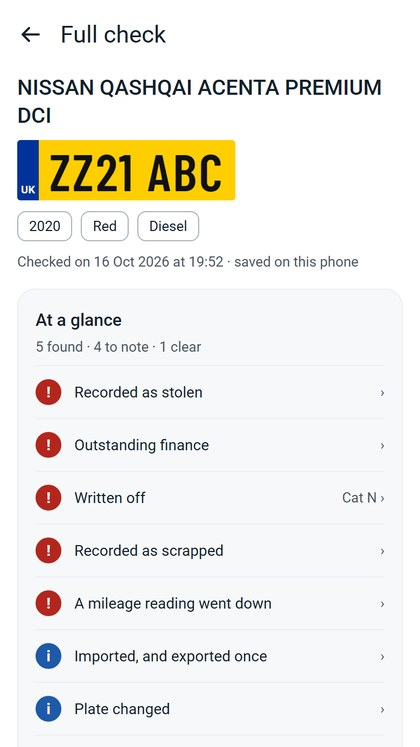
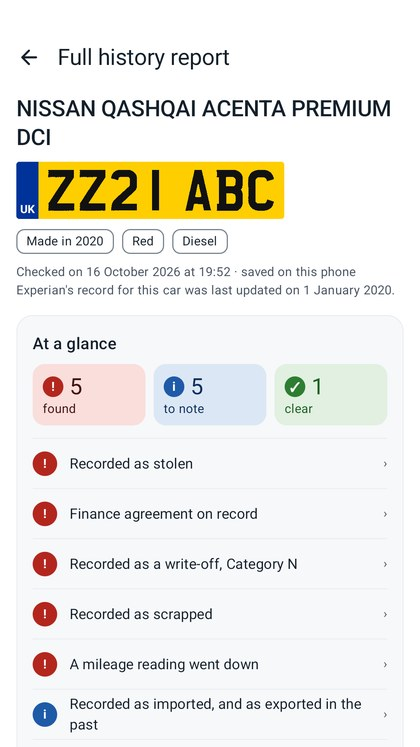
Full history check page and terms: the name, the app's words for what is covered, "Offered by", and the part-missing wording
Follows the Roadworthy app's content notifications 2026-10-21-roadworthy-full-history-check-name,
-wording, 2026-10-22-roadworthy-full-history-check-offered-by and 2026-10-21-roadworthy-terms-part-missing,
from the app's strings and plan. Designs "A2 · Full history check page" and "A2 · Terms of sale",
signed off by the owner on 22 October 2026 (canvas v148); the terms' meta description approved the
same day. The report image is the app's built report screen (car_report store-assets/website/
full-check-report.jpg). The branch keeps its older layout; it is brought up to master's frame
before it goes live. Reviewed by the commit-reviewer (fix first, then ok to commit).

Changed region(s): [[0.031, 0.0308, 0.9286, 0.9853], [0.8048, 0.6466, 0.8976, 0.6774]]

diff --git a/roadworthy/history-check/terms/index.html b/roadworthy/history-check/terms/index.html
@@ -4,13 +4,13 @@
 <meta charset="utf-8">
 <meta name="viewport" content="width=device-width, initial-scale=1">
 <title>Terms of sale: Roadworthy's full history check | Happy Path Apps</title>
-<meta name="description" content="The terms for buying Roadworthy's full history check from Happy Path Apps Ltd: what you get, the price, your right to cancel, and what to do if something is wrong.">
+<meta name="description" content="The terms for Roadworthy's full history check, offered by Happy Path Apps Ltd: what you get, the price, your right to cancel, and what to do if something is wrong.">
 <link rel="canonical" href="https://happypathapps.co.uk/roadworthy/history-check/terms/">
 <link rel="icon" href="/brand/favicon-32.png" sizes="32x32">
 <link rel="apple-touch-icon" href="/brand/favicon-180.png">
 <link rel="stylesheet" href="/style.css">
-<!-- The terms of sale for Roadworthy's Full check. Its design and wording are "Terms of sale"
-     on the design canvas. The draft line under the heading is replaced, with the date, when
+<!-- The terms of sale for Roadworthy's Full history check. Its design and wording are "A2 · Terms of sale"
+     on the design canvas (signed off 22 October 2026). The draft line under the heading is replaced, with the date, when
      the terms come into force. -->
 </head>
 <body>
@@ -38,7 +38,7 @@
 <div class="callout">
   <strong>The short version</strong>
   <ul>
-    <li>You're buying one report on one car, from Happy Path Apps Ltd, for &pound;6.99, paid through Google Play.</li>
+    <li>You're buying one report on one car, offered by Happy Path Apps Ltd, for &pound;6.99. You buy it through Google Play, which takes the payment and accounts for the VAT.</li>
     <li>The report shows what the records held on the day you checked. Records can be wrong or incomplete.</li>
     <li>You can't cancel once the report has been delivered, because you'll have asked for it straight away. If no report can be made, we refund you through Google Play.</li>
     <li>There's no data guarantee.</li>
@@ -50,22 +50,22 @@
 <p>Happy Path Apps Ltd, registered in England and Wales, company number 17507113. Registered office: 18 Brookdene Road, Bury, England, BL9 8ND. Email <a href="mailto:happypathapps@gmail.com">happypathapps@gmail.com</a>. Registered with the Information Commissioner's Office, number ZC279265.</p>
 
 <h2>What you're buying</h2>
-<p>One report on one vehicle, found by the registration you enter. It covers outstanding finance, insurance write-offs and their category, whether the vehicle is recorded as stolen, keeper changes, plate and colour changes, and whether it's recorded as scrapped, exported or imported. That data is provided by Experian.</p>
+<p>One report on one vehicle, found by the registration you enter. It covers finance agreements, the insurers' write-off register and any category, whether the vehicle is recorded as stolen, keeper changes, plate and colour changes, and whether it's recorded as scrapped, exported or imported. That data is provided by Experian.</p>
 <p>The report also shows what Roadworthy shows free for any vehicle, from DVLA and DVSA: tax, MOT status, MOT history and mileage at each test.</p>
 <p>The report is a record of what those sources held when you made the check. It isn't an inspection of the vehicle, a valuation, or advice to buy or not to buy. It doesn't cover the vehicle's physical condition or whether it's roadworthy, and it can't show whether a vehicle is a clone carrying another vehicle's identity.</p>
 
 <h2>Price and payment</h2>
-<p>The price is &pound;6.99, including VAT, shown in the app before you buy. You pay through Google Play, and Google's terms apply to the payment.</p>
+<p>The price is &pound;6.99, including VAT, shown in the app before you buy. You buy it through Google Play, which takes the payment and accounts for the VAT. Google Play's terms also apply.</p>
 
 <h2>Getting your report</h2>
 <p>The report appears in the app as soon as it's ready, and is saved on your phone with the vehicle. Keep it as long as you like. It stays until you choose to delete the report itself: deleting the vehicle from the app doesn't delete it. It's stored only on your phone, so uninstalling the app removes it.</p>
-<p>If the check can't be completed, no report is made and we refund you through Google Play. If part of the check doesn't come back, the report says "Not checked" for that part.</p>
+<p>If the check can't be completed, no report is made and we refund you through Google Play. If part of the check doesn't come back, or comes back incomplete, the report says "Not checked" for that part. Tell us and we'll check that part again within a reasonable time and without significant inconvenience to you. If we can't, or don't, we'll reduce the price by an appropriate amount, which may be the full price.</p>
 
 <h2>Your right to cancel</h2>
 <p>For digital content you normally have 14 days to cancel. Before you buy, the app asks you to agree that the report is made straight away and that, once it's delivered, you can no longer cancel. So once your report has been delivered, you can't cancel the purchase.</p>
 
 <h2>If something is wrong with your report</h2>
-<p>The report must be as we describe it here. If it isn't, for example if it's for a different vehicle from the one you entered, or a part is missing that it should have, tell us and we'll put it right or refund you.</p>
+<p>The report must be as we describe it here. If it isn't, for example if it's for a different vehicle from the one you entered, tell us and we'll put it right or refund you.</p>
 <p>We pass on the records as Experian and its sources give them to us. We don't create them, and we can't check them. If a record is wrong or incomplete, tell us, and we'll pass it on to Experian.</p>
 <p>We use reasonable care and skill in supplying your report, but the records in it come from Experian and its sources, and from DVLA and DVSA. We can't promise they're free of errors or complete. If the report isn't as described here, your rights under consumer law apply, and we'll put it right or refund you. Beyond that, our liability to you is limited to the price you paid.</p>
 <p>We aren't liable for losses we couldn't reasonably have foreseen, or for events beyond our reasonable control. Nothing in these terms limits our liability for death or personal injury caused by our negligence, for fraud, or for anything else the law doesn't let us limit, and nothing in them takes away your legal rights.</p>

diff --git a/roadworthy/history-check/index.html b/roadworthy/history-check/index.html
@@ -4,17 +4,17 @@
 <meta charset="utf-8">
 <meta name="viewport" content="width=device-width, initial-scale=1">
 <title>A full history check, in Roadworthy | Happy Path Apps</title>
-<meta name="description" content="Before you buy a used car, find out whether it has finance owing, has been written off, or is recorded as stolen. One car, one report, £6.99, yours to keep.">
+<meta name="description" content="Before you buy a used car, find out whether it has a finance agreement on record, is on the insurers' write-off register, or is recorded as stolen. One car, one report, £6.99, yours to keep.">
 <link rel="canonical" href="https://happypathapps.co.uk/roadworthy/history-check/">
 <link rel="icon" href="/brand/favicon-32.png" sizes="32x32">
 <link rel="apple-touch-icon" href="/brand/favicon-180.png">
 <link rel="preload" href="/brand/fonts/overpass-latin.woff2" as="font" type="font/woff2" crossorigin>
 <link rel="stylesheet" href="/app.css">
 <meta property="og:title" content="A full history check, in Roadworthy">
-<meta property="og:description" content="Finance owing, write-offs and stolen records for a used car. One car, one report, £6.99, yours to keep.">
+<meta property="og:description" content="Finance agreements, the insurers' write-off register and stolen records for a used car. One car, one report, £6.99, yours to keep.">
 <meta property="og:image" content="https://happypathapps.co.uk/roadworthy/shots/full-check.jpg">
-<!-- Roadworthy's Full check, sold in the app. Its design is "A · Full history check page" on
-     the design canvas. Experian is named only as "Data provided by Experian": it provides the
+<!-- Roadworthy's Full history check, offered in the app. Its design is "A2 · Full history check page" on
+     the design canvas (signed off 22 October 2026). Experian is named only as "Data provided by Experian": it provides the
      data and does not power the check, so it is never described as powering it, and no
      Experian logo is shown. The ICO number is the ICO's registration of Happy Path Apps Ltd
      (confirmed 20 October 2026). The terms of sale beside it go live with it. -->
@@ -48,15 +48,14 @@
     <div class="text">
       <img class="icon" src="/roadworthy/icon.png" width="72" height="72" alt="">
       <h1>A full history check, in Roadworthy</h1>
-      <p class="lede">Before you buy a used car, find out whether it has finance owing, has been
-      written off, or is recorded as stolen. One car, one report, &pound;6.99, and the report is
+      <p class="lede">Before you buy a used car, find out whether it has a finance agreement on record, is on the insurers' write-off register, or is recorded as stolen. One car, one report, &pound;6.99, and the report is
       yours to keep.</p>
       <div class="actions">
         <a class="btn" href="https://play.google.com/store/apps/details?id=uk.co.roadworthy">Get Roadworthy on Google Play</a>
       </div>
-      <p class="small">Bought in the app through Google Play. Sold by Happy Path Apps Ltd.</p>
+      <p class="small">Offered by Happy Path Apps Ltd. Bought through Google Play, which takes the payment and accounts for the VAT. Google Play's terms also apply.</p>
     </div>
-    <div class="phone"><img src="/roadworthy/shots/full-check.jpg" width="420" height="747" alt="A full check report, with what it found first: recorded as stolen, outstanding finance and a Cat N write-off"></div>
+    <div class="phone"><img src="/roadworthy/shots/full-check.jpg" width="420" height="747" alt="A full history report, with what it found first: recorded as stolen, a finance agreement on record, and recorded as a write-off, Category N"></div>
   </div>
 </header>
 
@@ -65,11 +64,11 @@
   <section class="row solo">
     <div class="text">
       <p class="label">What it checks</p>
-      <h2>What the full check tells you</h2>
+      <h2>What the full history check tells you</h2>
       <p>Data provided by Experian:</p>
       <ul class="facts ticks">
-        <li>Whether there's finance owing on the car.</li>
-        <li>Whether an insurer has recorded it as written off, and in which category.</li>
+        <li>Whether a finance agreement is on record for the car.</li>
+        <li>Whether it's on the insurers' write-off register, and any category.</li>
         <li>Whether it's recorded as stolen on the Police National Computer.</li>
         <li>How many keepers it has had, and when it last changed hands.</li>
         <li>Any change of number plate or colour.</li>
@@ -99,7 +98,7 @@
 
   <section class="panel prose">
     <h2>If part of the check doesn't come back</h2>
-    <p>The report says "Not checked" for that part, never "None found". If no report can be
+    <p>The report says "Not checked" for that part, never "None on record". If no report can be
     made, we refund you through Google Play.</p>
   </section>
 
@@ -121,7 +120,7 @@
   </section>
 
   <section class="panel callout">
-    <h2>Who sells it</h2>
+    <h2>Who offers it</h2>
     <p>Happy Path Apps Ltd, registered in England and Wales, company number 17507113.
     Registered office: 18 Brookdene Road, Bury, England, BL9 8ND.</p>
     <p>Email <a href="mailto:happypathapps@gmail.com">happypathapps@gmail.com</a>. Registered with the Information

diff --git a/README.md b/README.md
@@ -52,8 +52,8 @@ roadworthy/
   index.html         App page (app.css)
   privacy.html       THE privacy policy URL. Do not move it.
   history-check/
-    index.html       The paid Full check, sold in the app: what it covers and doesn't, the
-                     price, who sells it (app.css). Experian is named only as "Data provided
+    index.html       The paid Full history check, offered in the app: what it covers and doesn't, the
+                     price, who offers it (app.css). Experian is named only as "Data provided
                      by Experian". Not linked from any other page until the check is on sale.
     terms/
       index.html     Its terms of sale (style.css, a privacy policy's parts). Goes live with it.
@@ -75,9 +75,9 @@ roadworthy/
       index.html     Why cars fail their MOT and the checks an owner can do first; when and how
                      to book. Carries the site's first partner link (Fixter, in its booking panel).
   buying-a-used-car.html   Where the buyer's guide used to be. Now only redirects to it.
-  shots/             Roadworthy's store screenshots, 420 wide, and full-check.jpg, the Full
-                     check report cut from its signed-off design (board H02), to be replaced by
-                     a screenshot of the built screen if the build changes anything visible
+  shots/             Roadworthy's store screenshots, 420 wide, and full-check.jpg, the full
+                     history report screen from the built app (car_report
+                     store-assets/website/full-check-report.jpg), 420 x 747
   icon.png, screenshot.jpg   Shown on the hub
 pump-prices/
   icon.png, screenshot.jpg   Shown on the hub
